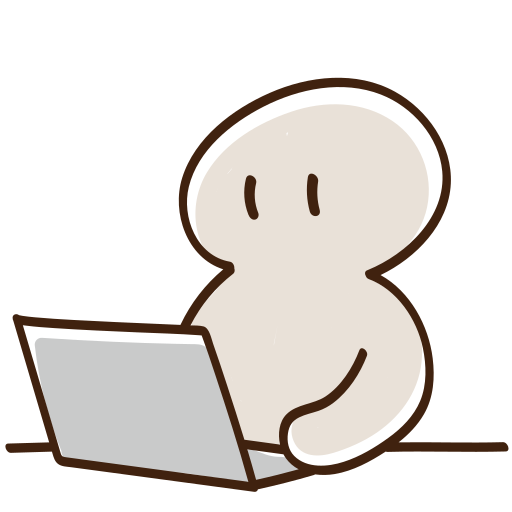
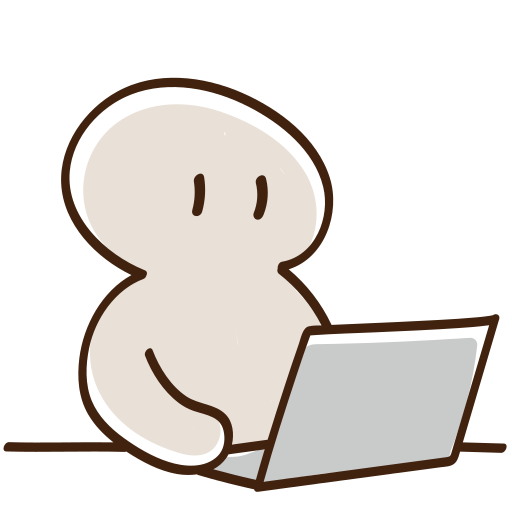
Add files via upload

diff --git a/index.html b/index.html
@@ -11,26 +11,31 @@
 <body>
     <div class="container">
         <a href="#popupmenu" class="mail"><img src="assets/img/icons/menu.png" class="mail"></a>
-        <img src="assets/img/main.png" class="mimg">
+        <img src="assets/img/tk.webp" class="mimg">
 
-        <h1>Hello, I'm Albin S</h1>
-        <p>there is no war in ba sing se</p>
-        <h2>Featured Projects</h2>
+        <h1>Yo, I'm Albin Shiby</h1>
+        <p>there is no war in ba sing se < twkk</p>
+        <h2>Featured project's</h2>
         <ul>
-            <a href="#"><li>> VP1 webpage</li></a>
-            <a href="#"><li>> Project 03</li></a>
+            <a href="https://github.com/albinshibyy/vp1" target="_blank"><li>> VP1 portfolio webpage design</li></a>
+            <a href="https://github.com/albinshibyy/xeybits" target="_blank"><li>> xeybits | my linux setup config</li></a>
         </ul>
         <h2>Latest article's</h2>
         <ul>
-            <a href="#"><li>> EOS expirence</li></a>
+            <a href="https://substack.com/@albinshiby" target="_blank"><li>> EOS expirence | susbstack > 2 months</li></a>
         </ul>
-        <h2>Online public profiles</h2>
+        <h2>Contact option's</h2>
+        <ul>
+            <a href="mailto://hello.albin@proton.me"><li>> hello.albin@proton.me | email</li></a>
+            <a href=""><li>> matrix.org ID @bylonroid</li></a>
+        </ul>
+        <h2>Online public profile's</h2>
         <div class="icons-container">
             <a href="https://github.com/albinshibyy" target="_blank"><img class="icon"
                     src="assets/img/icons/github.png"></img></a>
             <a href="https://instagram.com/albinshibyy" target="_blank"><img class="icon"
                     src="assets/img/icons/instagram.png"></img></a> 
-            <a href="https://gitlab.com/albinshibyy" target="_blank"><img class="icon"
+            <a href="https://gitlab.com/albinshiby" target="_blank"><img class="icon"
                     src="assets/img/icons/gitlab.png"></img></a>
             <a href="https://twitter.com/albinshibyy" target="_blank"><img class="icon"
                     src="assets/img/icons/x.png"></img></a>

diff --git a/assets/styles.css b/assets/styles.css
@@ -12,7 +12,7 @@ body {
     font-family: "Acme-Regular", sans-serif;
 }
 .mimg{
-    width: 8rem;
+    width: 12rem;
 }
 .container {
     margin-left: 1cm;
@@ -29,6 +29,7 @@ h1, h2, p, ul {
 
 h1 {
     font-size: 24px;
+    margin-top: 1rem;
     margin-bottom: 10px;
 }
 
@@ -40,6 +41,7 @@ h2 {
 p {
     font-size: 16px;
     margin-bottom: 10px;
+    opacity: .8;
 }
 
 ul {
@@ -51,7 +53,7 @@ ul {
 li {
     color: var(--link-color);
     font-size: 16px;
-    margin-bottom: 10px;
+    margin-bottom: 8px;
     transition: .3s;
 }
 li:hover{
